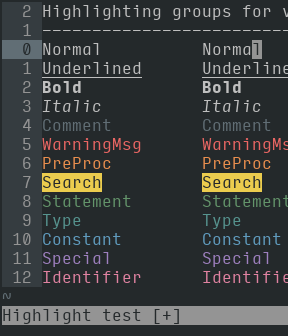
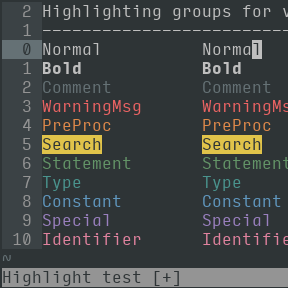
overhaul

Changed region(s): [[0.0, 0.0, 1.0, 1.0], [0.1562, 0.0, 1.0, 0.875]]

diff --git a/README.md b/README.md
@@ -1,6 +1,6 @@
 <h1 id="vrunchbang">vrunchbang</h1>
 
-<p>A vim theme inspired by the <a href="https://distrowatch.com/table.php?distribution=crunchbang">CrunchBang</a> Linux distribution (now <a href="https://www.bunsenlabs.org/">BunsenLabs</a>).</p>
+<p>A vim theme inspired by <a href="https://distrowatch.com/table.php?distribution=crunchbang">CrunchBang</a> Linux (now <a href="https://www.bunsenlabs.org/">BunsenLabs</a>).</p>
 
 <h2 id="screenshots">screenshots</h2>
 
@@ -9,6 +9,10 @@
 <td align="center"><img src="/img/screenshot-vrunchbang-light.png" alt="screenshot of the vrunchbang-light vim theme" width="288" /> <img src="/img/screenshot-vrunchbang-dark.png" alt="screenshot of the vrunchbang-dark vim theme" width="288" /></td>
 <td align="center"><strong>vrunchbang-<br />dark</strong></td></tr>
 </table>
+
+<blockquote>
+  <p>pictured font: <a href="http://input.fontbureau.com/">Input Mono</a></p>
+</blockquote>
 
 <h2 id="setup">setup</h2>
 
@@ -60,8 +64,8 @@ call plug#end()
   <li>8 theme-distinct <strong>base colours</strong></li>
   <li>8 standard <strong>accent colours</strong> (shared by members of the “nightsense theme family”) for syntax highlighting
     <ul>
-      <li>hue selection at the scale of 1/12 (30°) colour wheel intervals, followed by 1/12 subinterval adjustments</li>
-      <li>value and saturation tuned for light backgrounds, then saturation lowered for dark backgrounds</li>
+      <li>hues were selected at the scale of 1/12 (30°) colour wheel intervals, followed by 1/12 subinterval adjustments</li>
+      <li>value and saturation were tuned for light backgrounds, then saturation was lowered for dark backgrounds</li>
     </ul>
   </li>
 </ul>
@@ -76,68 +80,68 @@ call plug#end()
   </thead>
   <tbody>
     <tr>
-      <td style="text-align: right"><img src="http://www.colorhexa.com/24292b.png" height="24" width="42" /> <code class="highlighter-rouge">24292b</code> </td>
-      <td style="text-align: center"><img src="http://www.colorhexa.com/eb403a.png" height="24" width="42" /> <code class="highlighter-rouge">eb403a</code> </td>
-      <td style="text-align: left"><img src="http://www.colorhexa.com/eb6663.png" height="24" width="42" /> <code class="highlighter-rouge">eb6663</code></td>
+      <td style="text-align: right"><img src="http://www.colorhexa.com/2e3436.png" height="24" width="42" /> <code class="highlighter-rouge">2e3436</code> </td>
+      <td style="text-align: center"><img src="http://www.colorhexa.com/eb3a3a.png" height="24" width="42" /> <code class="highlighter-rouge">eb3a3a</code> </td>
+      <td style="text-align: left"><img src="http://www.colorhexa.com/eb6363.png" height="24" width="42" /> <code class="highlighter-rouge">eb6363</code></td>
     </tr>
     <tr>
-      <td style="text-align: right"><img src="http://www.colorhexa.com/353c40.png" height="24" width="42" /> <code class="highlighter-rouge">353c40</code> </td>
-      <td style="text-align: center"><img src="http://www.colorhexa.com/eb6d13.png" height="24" width="42" /> <code class="highlighter-rouge">eb6d13</code> </td>
-      <td style="text-align: left"><img src="http://www.colorhexa.com/eb8f4e.png" height="24" width="42" /> <code class="highlighter-rouge">eb8f4e</code></td>
+      <td style="text-align: right"><img src="http://www.colorhexa.com/3b4245.png" height="24" width="42" /> <code class="highlighter-rouge">3b4245</code> </td>
+      <td style="text-align: center"><img src="http://www.colorhexa.com/e06812.png" height="24" width="42" /> <code class="highlighter-rouge">e06812</code> </td>
+      <td style="text-align: left"><img src="http://www.colorhexa.com/e0894a.png" height="24" width="42" /> <code class="highlighter-rouge">e0894a</code></td>
     </tr>
     <tr>
-      <td style="text-align: right"><img src="http://www.colorhexa.com/464f54.png" height="24" width="42" /> <code class="highlighter-rouge">464f54</code> </td>
-      <td style="text-align: center"><img src="http://www.colorhexa.com/ebc83b.png" height="24" width="42" /> <code class="highlighter-rouge">ebc83b</code> </td>
-      <td style="text-align: left"><img src="http://www.colorhexa.com/ebcc4e.png" height="24" width="42" /> <code class="highlighter-rouge">ebcc4e</code></td>
+      <td style="text-align: right"><img src="http://www.colorhexa.com/485154.png" height="24" width="42" /> <code class="highlighter-rouge">485154</code> </td>
+      <td style="text-align: center"><img src="http://www.colorhexa.com/e0bf38.png" height="24" width="42" /> <code class="highlighter-rouge">e0bf38</code> </td>
+      <td style="text-align: left"><img src="http://www.colorhexa.com/e0c34a.png" height="24" width="42" /> <code class="highlighter-rouge">e0c34a</code></td>
     </tr>
     <tr>
-      <td style="text-align: right"><img src="http://www.colorhexa.com/616e75.png" height="24" width="42" /> <code class="highlighter-rouge">616e75</code> </td>
-      <td style="text-align: center"><img src="http://www.colorhexa.com/259433.png" height="24" width="42" /> <code class="highlighter-rouge">259433</code> </td>
-      <td style="text-align: left"><img src="http://www.colorhexa.com/63946a.png" height="24" width="42" /> <code class="highlighter-rouge">63946a</code></td>
+      <td style="text-align: right"><img src="http://www.colorhexa.com/657175.png" height="24" width="42" /> <code class="highlighter-rouge">657175</code> </td>
+      <td style="text-align: center"><img src="http://www.colorhexa.com/25942e.png" height="24" width="42" /> <code class="highlighter-rouge">25942e</code> </td>
+      <td style="text-align: left"><img src="http://www.colorhexa.com/639467.png" height="24" width="42" /> <code class="highlighter-rouge">639467</code></td>
     </tr>
     <tr>
       <td style="text-align: right"><img src="http://www.colorhexa.com/949494.png" height="24" width="42" /> <code class="highlighter-rouge">949494</code> </td>
-      <td style="text-align: center"><img src="http://www.colorhexa.com/009488.png" height="24" width="42" /> <code class="highlighter-rouge">009488</code> </td>
-      <td style="text-align: left"><img src="http://www.colorhexa.com/56948f.png" height="24" width="42" /> <code class="highlighter-rouge">56948f</code></td>
+      <td style="text-align: center"><img src="http://www.colorhexa.com/0c9489.png" height="24" width="42" /> <code class="highlighter-rouge">0c9489</code> </td>
+      <td style="text-align: left"><img src="http://www.colorhexa.com/4a948e.png" height="24" width="42" /> <code class="highlighter-rouge">4a948e</code></td>
     </tr>
     <tr>
       <td style="text-align: right"><img src="http://www.colorhexa.com/bfbfbf.png" height="24" width="42" /> <code class="highlighter-rouge">bfbfbf</code> </td>
-      <td style="text-align: center"><img src="http://www.colorhexa.com/308bbf.png" height="24" width="42" /> <code class="highlighter-rouge">308bbf</code> </td>
-      <td style="text-align: left"><img src="http://www.colorhexa.com/609cbf.png" height="24" width="42" /> <code class="highlighter-rouge">609cbf</code></td>
+      <td style="text-align: center"><img src="http://www.colorhexa.com/3083bf.png" height="24" width="42" /> <code class="highlighter-rouge">3083bf</code> </td>
+      <td style="text-align: left"><img src="http://www.colorhexa.com/6097bf.png" height="24" width="42" /> <code class="highlighter-rouge">6097bf</code></td>
     </tr>
     <tr>
       <td style="text-align: right"><img src="http://www.colorhexa.com/e0e0e0.png" height="24" width="42" /> <code class="highlighter-rouge">e0e0e0</code> </td>
-      <td style="text-align: center"><img src="http://www.colorhexa.com/8c60bf.png" height="24" width="42" /> <code class="highlighter-rouge">8c60bf</code> </td>
-      <td style="text-align: left"><img src="http://www.colorhexa.com/9e80bf.png" height="24" width="42" /> <code class="highlighter-rouge">9e80bf</code></td>
+      <td style="text-align: center"><img src="http://www.colorhexa.com/8760bf.png" height="24" width="42" /> <code class="highlighter-rouge">8760bf</code> </td>
+      <td style="text-align: left"><img src="http://www.colorhexa.com/9a80bf.png" height="24" width="42" /> <code class="highlighter-rouge">9a80bf</code></td>
     </tr>
     <tr>
       <td style="text-align: right"><img src="http://www.colorhexa.com/ffffff.png" height="24" width="42" /> <code class="highlighter-rouge">ffffff</code> </td>
-      <td style="text-align: center"><img src="http://www.colorhexa.com/e05e89.png" height="24" width="42" /> <code class="highlighter-rouge">e05e89</code> </td>
-      <td style="text-align: left"><img src="http://www.colorhexa.com/e082a1.png" height="24" width="42" /> <code class="highlighter-rouge">e082a1</code></td>
+      <td style="text-align: center"><img src="http://www.colorhexa.com/e05e85.png" height="24" width="42" /> <code class="highlighter-rouge">e05e85</code> </td>
+      <td style="text-align: left"><img src="http://www.colorhexa.com/e0829e.png" height="24" width="42" /> <code class="highlighter-rouge">e0829e</code></td>
     </tr>
   </tbody>
 </table>
 
-<p><img src="http://www.colorhexa.com/eb403a.png" height="24" width="42" />
+<p><img src="http://www.colorhexa.com/eb3a3a.png" height="24" width="42" />
 <strong>Red</strong>, the colour of alarm, is used for <strong>warning elements</strong>, including error messages, misspellings, and diff deletions.</p>
 
-<p><img src="http://www.colorhexa.com/eb6d13.png" height="24" width="42" />
+<p><img src="http://www.colorhexa.com/e06812.png" height="24" width="42" />
 <strong>Orange</strong> is the colour of fire, which serves as a preliminary to many practical activities. Orange is therefore used for <strong>preliminary elements</strong>, such as preprocessor commands (which prepare data to be handled by another program), incremental searching (that is, a search term in the process of being typed), titles, and miscapitalized words.</p>
 
-<p><img src="http://www.colorhexa.com/ebc83b.png" height="24" width="42" />
+<p><img src="http://www.colorhexa.com/e0bf38.png" height="24" width="42" />
 <strong>Yellow</strong>, the classic highlighting colour, is applied to elements that are not warnings yet should draw attention with high visibility. These <strong>highlighted elements</strong> include search results, task tags (<code class="highlighter-rouge">TODO</code>, <code class="highlighter-rouge">FIXME</code>…), and diff changes.</p>
 
-<p><img src="http://www.colorhexa.com/259433.png" height="24" width="42" />
-<strong>Green</strong>, the colour that says “go ahead, proceed with the task at hand”, is used for positive <strong>action elements</strong>, such as statements (if/then, while/do, case…), mode indicators (insert, visual…), vim user prompts, and diff additions.</p>
+<p><img src="http://www.colorhexa.com/25942e.png" height="24" width="42" />
+<strong>Green</strong>, the colour that says “go ahead, proceed with the task at hand”, is used for <strong>action elements</strong>, such as statements (if/then, while/do, case…), mode indicators (insert, visual…), vim user prompts, and diff additions.</p>
 
-<p><img src="http://www.colorhexa.com/009488.png" height="24" width="42" />
+<p><img src="http://www.colorhexa.com/0c9489.png" height="24" width="42" />
 <strong>Teal</strong> is named after the “common teal”, a kind of duck, thus connecting this colour with the concept of “species”, which is a means of classifying life into very specific types. Teal is therefore used for specifying <strong>object types</strong>, such as data type (boolean, integer, string…) or storage class (static, volatile…), as well as mislocalized words (that is, words that are not misspelled but of the wrong type, namely a foreign locale type).</p>
 
-<p><img src="http://www.colorhexa.com/308bbf.png" height="24" width="42" />
+<p><img src="http://www.colorhexa.com/3083bf.png" height="24" width="42" />
 <strong>Blue</strong>, a colour of calm stability, is used for <strong>constants</strong>, which come in the form of boolean values, integers, floating-point numbers, characters, and strings.</p>
 
-<p><img src="http://www.colorhexa.com/8c60bf.png" height="24" width="42" />
+<p><img src="http://www.colorhexa.com/8760bf.png" height="24" width="42" />
 <strong>Purple</strong>, often associated with rare purple dyes historically produced for special works of art, is used for <strong>special text</strong>, including special characters (standalone or within syntax units), vim tags, and debugging statements. Rarely-used words are also marked, allowing the writer to consider whether such a specially uncommon word is appropriate.</p>
 
-<p><img src="http://www.colorhexa.com/e05e89.png" height="24" width="42" />
+<p><img src="http://www.colorhexa.com/e05e85.png" height="24" width="42" />
 <strong>Pink</strong>, the colour of spring blossoms, is used for <strong>object names</strong>, including the names of variables and functions. To code is to bring countless objects blossoming into existence as one types their names.</p>
